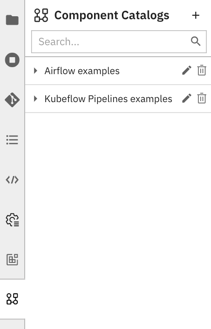
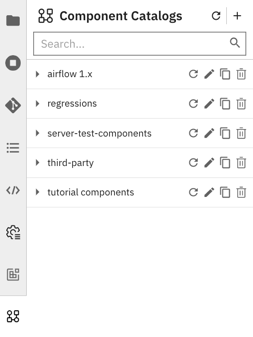
Document how to refresh component catalog entries

diff --git a/docs/source/user_guide/pipeline-components.md b/docs/source/user_guide/pipeline-components.md
@@ -138,6 +138,16 @@ To add components from a catalog:
 
  > Tip: check the log file for error messages if no components from the added catalog are displayed in the palette.
 
+#### Reloading a component catalog entry
+
+To reload a catalog entry if the underlying catalog has changed: 
+
+1. Open the `Pipeline Components` panel.
+1. Click the `reload` icon next to the entry name.
+1. The catalog entry is re-loaded and changes are reflected in the Visual Pipeline Editor palette. How quickly the entry is processed depends on the catalog type, the number of entries in the catalog, and network connectivity.
+
+> Tip: check the log file for error messages if no updates from the reloaded catalog are displayed in the palette. 
+
 #### Modifying a component catalog entry
 
 1. Open the `Pipeline Components` panel.
